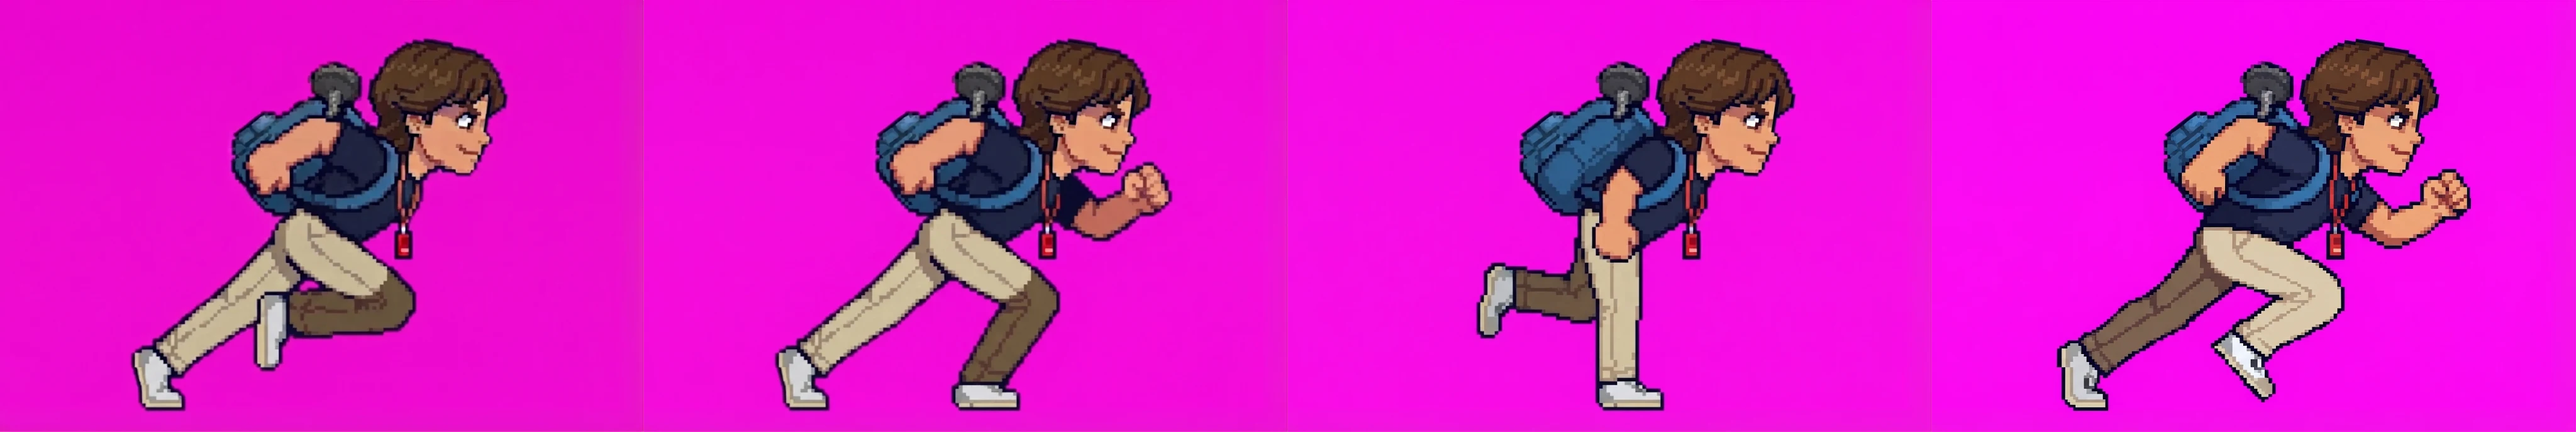
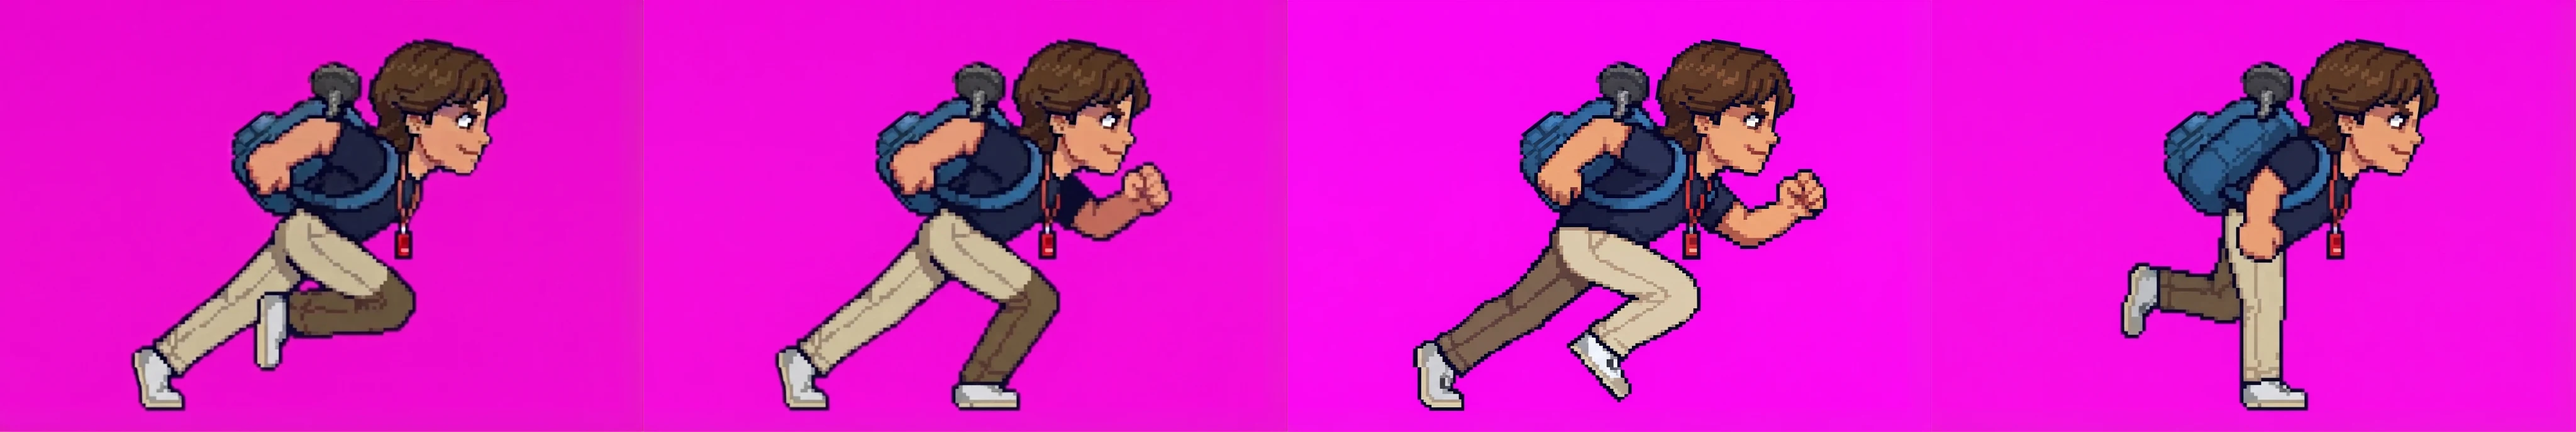
fix: order Samu's run frames by the leg cycle (1-2-4-3)
Frame 3 (standing on the light leg) came before frame 4 (landing on it), so
he seemed to skate. Speed and cadence checked: ~60 px per step.

Claude-Session: https://claude.ai/code/session_015XotzFLe4ThudCCL71JWWt

Changed region(s): [[0.7812, 0.2751, 0.9688, 0.9782], [0.5312, 0.2751, 0.7188, 0.9782]]

diff --git a/art/samu/anim/build-strips.py b/art/samu/anim/build-strips.py
@@ -4,7 +4,8 @@ from PIL import Image
 CANVAS_W = 1024
 # Idle: guard (pause), reach for the dumbbell, two curls, put it back.
 IDLE = [1, 2, 3, 4, 5, 4, 3, 4, 5, 4, 3, 2]
-RUN = [1, 2, 3, 4]
+# Order by what the legs do: dark leg lands, pushes; light leg lands, supports.
+RUN = [1, 2, 4, 3]
 def strip(paths, out):
     frames = [Image.open(p).convert('RGB') for p in paths]
     s = Image.new('RGB', (CANVAS_W * len(frames), frames[0].height), (255, 0, 255))

diff --git a/docs/NOTAS.md b/docs/NOTAS.md
@@ -8,6 +8,8 @@ Se actualiza al cerrar cada sesión. Lo más reciente, arriba.
 
 ### Hecho
 
+- **Carrera de Samu reordenada (15 nov)** — Se veía mal porque los fotogramas iban en el orden de los archivos: el 3.º (apoyado en la pierna clara) venía antes del 4.º (pisando con ella). Orden 1-2-4-3 en `build-strips.py`. Comprobado que ritmo y velocidad cuadran (378 px/s, ~60 px por paso).
+
 - **Samu: idle de curls, carrera nueva y esquiva (15 nov)** — Idle montado desde 5 poses (`art/samu/anim/build-strips.py`): guardia, coge la mancuerna de la mochila, dos curls, la guarda; `IdleTiming` de 1,5 s de pausa y 170 ms por fotograma. Carrera de 4 fotogramas que ya alternan piernas (sin trucos). `dodge.jpg` resultó ser la imagen que se había tomado por `throw`: ahora `throw` falta y tira de `grab` (respaldo nuevo en `bodyAnimation.ts`, con test). Comprobado en el navegador.
 
 - **Carrera nueva de Samu (15 nov)** — Tira de Riga sin estela; ciclo de 4 fotogramas distintos montado con `art/samu/anim/build-run.py` (zancada, en el aire y los dos con las piernas intercambiadas).
@@ -79,6 +81,8 @@ Se actualiza al cerrar cada sesión. Lo más reciente, arriba.
 - **F0.1 (26 oct)** — Monorepo con npm workspaces (`shared`, `client`, `server`). Cliente Vite + Phaser 3 con `GameScene` vacía (1280×720, escala FIT) que importa `GAME_TITLE` de `shared`. Servidor de prueba que corre `.ts` directamente con Node 24. Repo en https://github.com/rigq/brawler.
 
 ### Decisiones
+
+- **Al montar un ciclo de carrera, ordenar por lo que hace cada pierna** (pisa → se apoya → la otra pasa delante → pisa la otra), no por el orden de los archivos: Gemini no los entrega en orden.
 
 - **En el aire no te giras (confirmado el 15 nov)**: Riga lo vio como fallo, pero se queda la regla de Smash. Sin ella no existirían los aéreos traseros ni retroceder golpeando hacia atrás. Los especiales y los fuertes sí giran si se mantiene una dirección al lanzarlos. Ya explicado en `docs/CONTROLES.md`.
 

diff --git a/art/README.md b/art/README.md
@@ -73,7 +73,7 @@ Nombres de `docs/PROMPTS_ANIMACIONES.md`. Se procesan con `node tools/pixelate.t
 
 | Ojo con | Qué pasa |
 | --- | --- |
-| `idle.png`, `run.png` | Montadas con `build-strips.py` desde los fotogramas sueltos de `idle-src/` (5 poses, llegaron en orden inverso) y `run-src/` (4). El idle: guardia → coge la mancuerna → dos curls → la guarda. La carrera alterna bien las piernas |
+| `idle.png`, `run.png` | Montadas con `build-strips.py` desde los fotogramas sueltos de `idle-src/` (5 poses, llegaron en orden inverso) y `run-src/` (4). El idle: guardia → coge la mancuerna → dos curls → la guarda. La carrera va en orden 1-2-4-3 (por lo que hace cada pierna: pisa la oscura, se apoya, la clara pasa delante, aterriza la clara); en el orden de los archivos parecía que patinaba |
 | `dodge.jpg` | Era la imagen que al principio se tomó por `throw` (idénticas, byte a byte): `throw` sigue faltando |
 | `heavy-side.jpg`, `heavy-down.jpg` | El 2.º fotograma sale duplicado (estela): se sustituye por el 1.º |
 | `light-up.jpg` | Arcos azules de barrido en los fotogramas 2 y 3; se dejan (se leen como el arco del golpe) |
